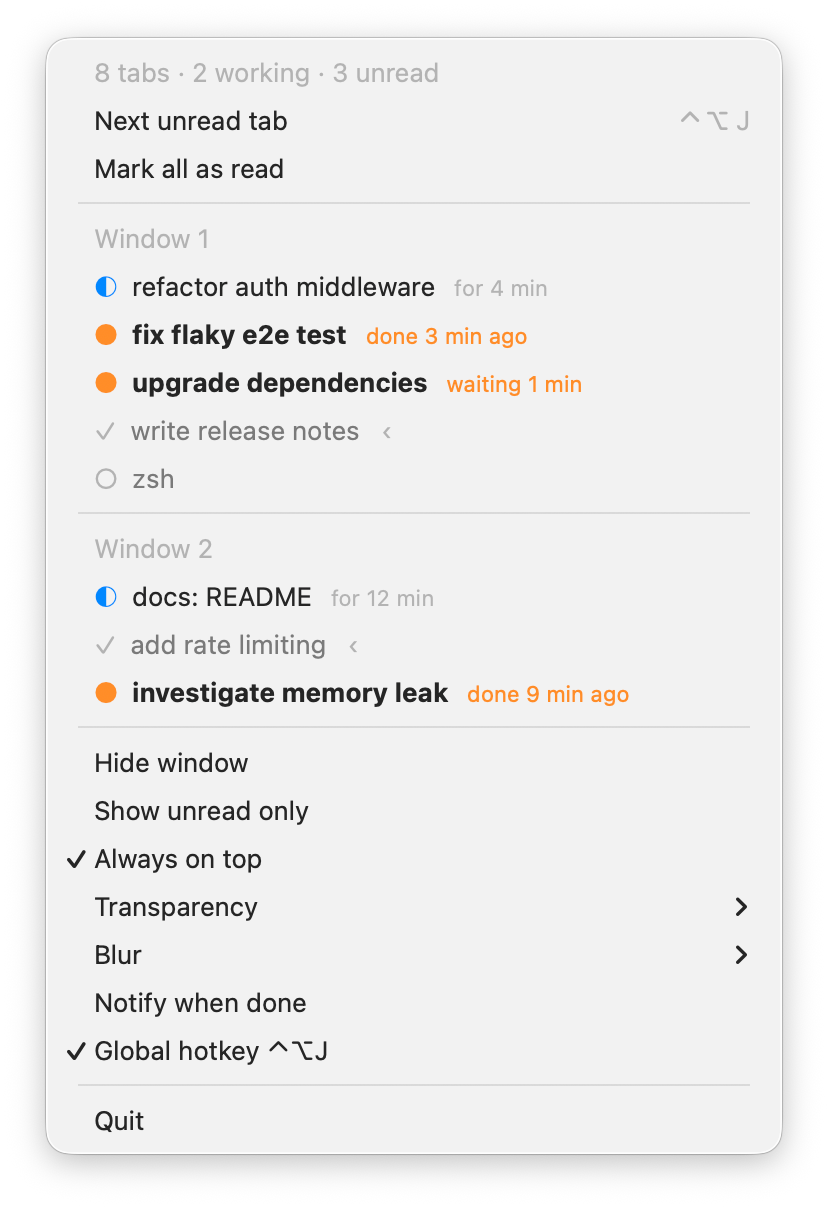
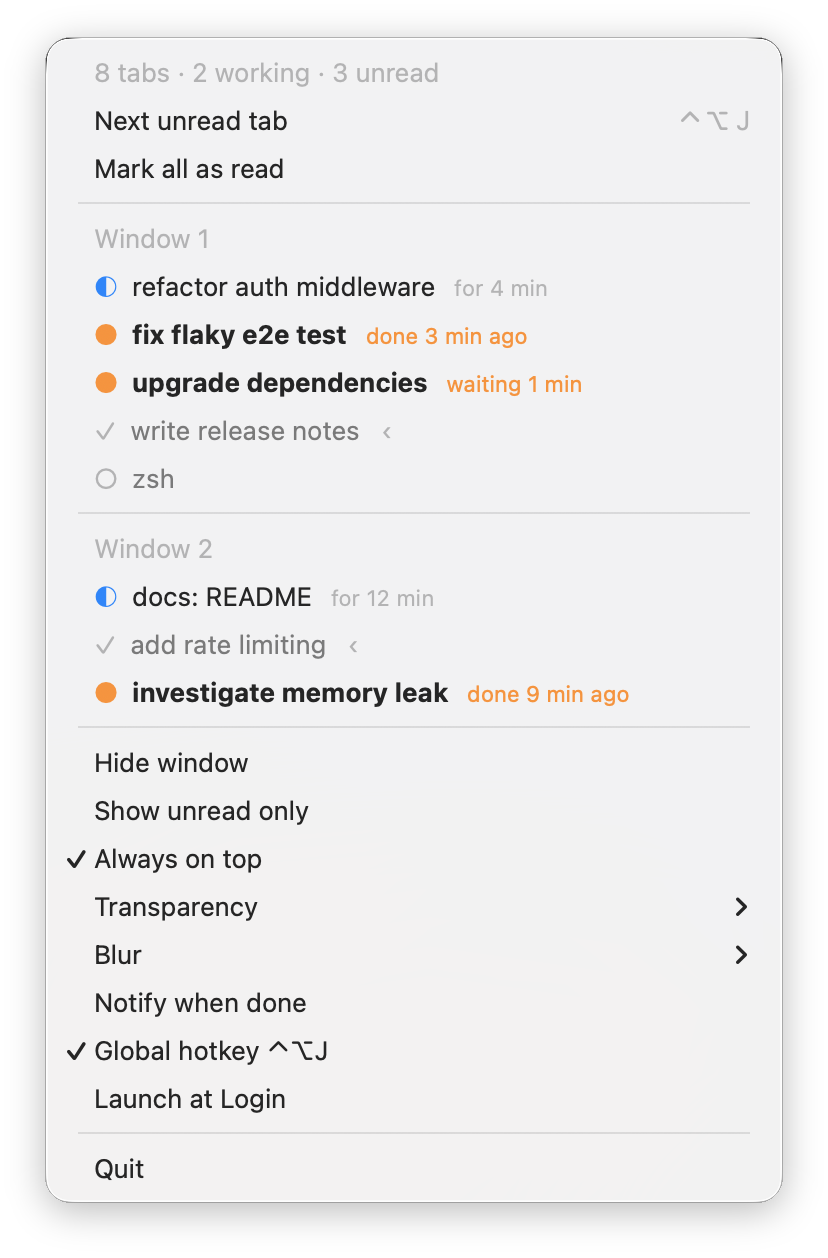
Fix release zip, demo cleanup, hotkey retry and notification settings
- make zip: drop AppleDouble/xattr entries so unzip keeps the signature valid
- Demo mode: remove its settings on quit (also on Ctrl-C/kill, even with the menu open),
  log to the terminal only, show Launch at Login as an inert checkbox
- "(unavailable)" hotkey item retries registration instead of switching off
- Notify item opens System Settings when notifications are denied; permission is
  re-read whenever the menu opens
- Menu screenshot retaken with Launch at Login

diff --git a/Sources/GhosttyBar/main.swift b/Sources/GhosttyBar/main.swift
@@ -49,6 +49,7 @@ final class AppDelegate: NSObject, NSApplicationDelegate, NSMenuDelegate {
     var timer: Timer?
     var lastPoll = Date.distantPast
     var sigSource: DispatchSourceSignal?
+    var quitSources: [DispatchSourceSignal] = []
     var menuOpen = false
     var menuDirty = false
 
@@ -94,6 +95,21 @@ final class AppDelegate: NSObject, NSApplicationDelegate, NSMenuDelegate {
         src.setEventHandler { [weak self] in MainActor.assumeIsolated { self?.window.toggle() } }
         src.resume()
         sigSource = src
+        if isDemo {
+            // Ctrl-C / kill quits cleanly, so the demo settings get removed.
+            for sig in [SIGINT, SIGTERM] {
+                quitSources.append(onSignalEvenInMenu(sig) { [weak self] in
+                    self?.settings.removeAll()
+                    NSApp.terminate(nil)
+                })
+            }
+            // `kill -USR2`: opens the dropdown, so screenshots of it can be scripted.
+            signal(SIGUSR2, SIG_IGN)
+            let m = DispatchSource.makeSignalSource(signal: SIGUSR2, queue: .main)
+            m.setEventHandler { [weak self] in MainActor.assumeIsolated { self?.statusItem.button?.performClick(nil) } }
+            m.resume()
+            quitSources.append(m)
+        }
 
         poll()
         rebuildMenu()
@@ -112,6 +128,10 @@ final class AppDelegate: NSObject, NSApplicationDelegate, NSMenuDelegate {
         ) { [weak self] _ in MainActor.assumeIsolated { if self?.source.isFrontmost == true { self?.poll() } } }
         let version = Bundle.main.object(forInfoDictionaryKey: "CFBundleShortVersionString") as? String ?? "dev"
         log("GhosttyBar \(version) started\(isDemo ? " in demo mode" : ""), pid \(getpid()), \(model.unreadCount) unread")
+    }
+
+    func applicationWillTerminate(_ n: Notification) {
+        if isDemo { settings.removeAll() }  // leave no demo settings behind
     }
 
     // MARK: polling
@@ -151,6 +171,8 @@ final class AppDelegate: NSObject, NSApplicationDelegate, NSMenuDelegate {
         if menuDirty { rebuildMenu() }  // e.g. slider moved in the right-click menu
     }
     func menuWillOpen(_ menu: NSMenu) {
+        // The permission can change in System Settings while we run; the result shows on the next open.
+        notifier?.refresh { [weak self] changed in if changed { self?.rebuildMenu() } }
         rebuildMenu()                  // fresh relative times
         menuOpen = true
     }
@@ -201,7 +223,7 @@ final class AppDelegate: NSObject, NSApplicationDelegate, NSMenuDelegate {
             self.window.setVisible(!self.window.isShown)
         })
         addSettingsItems(to: menu)
-        if !isDemo { menu.addItem(loginItem()) }
+        menu.addItem(loginItem())
         menu.addItem(.separator())
         menu.addItem(ClosureItem("Quit") { NSApp.terminate(nil) })
     }
@@ -293,6 +315,13 @@ final class AppDelegate: NSObject, NSApplicationDelegate, NSMenuDelegate {
 
     /// Checked = registered as login item. "Requires approval" = the user must allow it in System Settings.
     private func loginItem() -> NSMenuItem {
+        if isDemo {  // shown like a real instance, but never registers the demo binary as a login item
+            return ClosureItem("Launch at Login", checked: settings.demoLaunchAtLogin) { [weak self] in
+                guard let self else { return }
+                self.settings.demoLaunchAtLogin.toggle()
+                self.rebuildMenu()
+            }
+        }
         let status = LoginItem.status
         let pending = status == .requiresApproval
         return ClosureItem(pending ? "Launch at Login (allow in System Settings)" : "Launch at Login",
@@ -341,6 +370,11 @@ final class AppDelegate: NSObject, NSApplicationDelegate, NSMenuDelegate {
     }
 
     func toggleNotify() {
+        if let notifier, notifier.blocked {
+            // Denied in System Settings: asking again returns false at once, so send the user there.
+            Notifier.openSystemSettings()
+            return
+        }
         guard let notifier, !settings.notify else {
             settings.notify.toggle()   // switching off, or demo mode (setting only, never posts)
             rebuildMenu()
@@ -355,7 +389,9 @@ final class AppDelegate: NSObject, NSApplicationDelegate, NSMenuDelegate {
     }
 
     func toggleHotKey() {
-        settings.hotKey.toggle()
+        // On but not registered (another app owns ⌃⌥J): a click retries instead of switching off.
+        let failed = settings.hotKey && hotKey == nil && !isDemo
+        if !failed { settings.hotKey.toggle() }
         applyHotKey()
         rebuildMenu()
     }
@@ -371,6 +407,21 @@ final class AppDelegate: NSObject, NSApplicationDelegate, NSMenuDelegate {
             hotKey = nil
         }
     }
+}
+
+/// Runs `action` on the main thread when `sig` arrives, also while a menu is open (the main queue is not
+/// serviced during menu tracking, a common-modes run loop block is).
+nonisolated func onSignalEvenInMenu(_ sig: Int32, _ action: @escaping @MainActor @Sendable () -> Void) -> DispatchSourceSignal {
+    signal(sig, SIG_IGN)
+    let src = DispatchSource.makeSignalSource(signal: sig, queue: .global())
+    src.setEventHandler { @Sendable in
+        CFRunLoopPerformBlock(CFRunLoopGetMain(), CFRunLoopMode.commonModes.rawValue) {
+            MainActor.assumeIsolated { action() }
+        }
+        CFRunLoopWakeUp(CFRunLoopGetMain())
+    }
+    src.resume()
+    return src
 }
 
 setUpLogging()

diff --git a/Sources/GhosttyBar/Extras.swift b/Sources/GhosttyBar/Extras.swift
@@ -56,11 +56,26 @@ final class Notifier: NSObject, UNUserNotificationCenterDelegate {
     override init() {
         super.init()
         center.delegate = self
+        refresh { _ in }
+    }
+
+    /// Re-reads the permission; `done(true)` when `blocked` changed.
+    func refresh(_ done: @escaping @MainActor @Sendable (Bool) -> Void) {
         center.getNotificationSettings { s in
             let denied = s.authorizationStatus == .denied
             DispatchQueue.main.async {
-                MainActor.assumeIsolated { self.blocked = denied }
+                MainActor.assumeIsolated {
+                    let changed = self.blocked != denied
+                    self.blocked = denied
+                    done(changed)
+                }
             }
+        }
+    }
+
+    static func openSystemSettings() {
+        if let url = URL(string: "x-apple.systempreferences:com.apple.Notifications-Settings.extension") {
+            NSWorkspace.shared.open(url)
         }
     }
 
@@ -132,7 +147,7 @@ enum LoginItem {
 /// Started from a terminal: log to stderr. Otherwise (Finder, login item, launchd) append to
 /// ~/Library/Logs/GhosttyBar.log, which starts over once it passes 1 MB.
 func setUpLogging() {
-    guard isatty(STDERR_FILENO) == 0 else { return }
+    guard isatty(STDERR_FILENO) == 0, !isDemo else { return }  // demo runs log to stderr only
     let fm = FileManager.default
     let dir = fm.homeDirectoryForCurrentUser.appendingPathComponent("Library/Logs")
     try? fm.createDirectory(at: dir, withIntermediateDirectories: true)

diff --git a/Sources/GhosttyBar/Model.swift b/Sources/GhosttyBar/Model.swift
@@ -266,7 +266,24 @@ final class AppSettings {
     /// A separate suite, wiped on creation (demo mode, tests).
     init(freshSuite suite: String) {
         d = UserDefaults(suiteName: suite) ?? .standard
+        self.suite = suite
         d.removePersistentDomain(forName: suite)
+    }
+
+    private var suite: String?
+
+    /// Deletes a fresh suite (demo mode on quit). Never touches the normal settings.
+    func removeAll() {
+        guard let suite else { return }
+        for key in d.persistentDomain(forName: suite)?.keys ?? [:].keys { d.removeObject(forKey: key) }
+        d.removePersistentDomain(forName: suite)
+        CFPreferencesAppSynchronize(suite as CFString)
+    }
+
+    /// Demo mode only: the Launch at Login checkbox is shown but never registers anything.
+    var demoLaunchAtLogin: Bool {
+        get { d.bool(forKey: "demoLaunchAtLogin") }
+        set { d.set(newValue, forKey: "demoLaunchAtLogin") }
     }
 
     var visible: Bool {

diff --git a/README.md b/README.md
@@ -107,7 +107,8 @@ If you are looking at a tab when it finishes, it does not become unread.
 
 ⌃⌥J jumps to the next unread tab, oldest first. It works from any app and needs no Accessibility
 permission. If it clashes with another app, turn off **Global hotkey ⌃⌥J** in the menu. If another app
-already owns the combination, the item reads "(unavailable)".
+already owns the combination, the item reads "(unavailable)"; click it to try again once the other app
+lets go.
 
 ### Settings
 
@@ -121,7 +122,7 @@ behavior settings plus **Hide window**.
 | Always on top | Keeps the window above other windows and on all Spaces. On by default. |
 | Transparency | Opacity of the window background: 100 % is solid, 15 % is almost clear. Default 85 %. |
 | Blur | Blur of what shows through the window, from off to 100 %. Until you set it, it follows Transparency. |
-| Notify when done | A silent macOS notification when a tab becomes unread. Click it to jump to the tab. Off by default. |
+| Notify when done | A silent macOS notification when a tab becomes unread. Click it to jump to the tab. Off by default. If notifications are turned off for GhosttyBar in System Settings, the item says so and opens that page. |
 | Global hotkey ⌃⌥J | See above. On by default. |
 | Launch at Login | Starts GhosttyBar when you log in. |
 
@@ -135,6 +136,7 @@ Settings are stored in the `com.github.tony-schumacher.GhosttyBar` defaults doma
 
 ```sh
 defaults delete com.github.tony-schumacher.GhosttyBar
+defaults delete com.github.tony-schumacher.GhosttyBar.demo 2>/dev/null  # only if a demo was killed hard
 ```
 
 To toggle the window from a script or a keyboard tool, send the `USR1` signal:
@@ -152,8 +154,10 @@ build/GhosttyBar.app/Contents/MacOS/GhosttyBar --demo
 ```
 
 Demo mode shows eight sample tabs in two windows and never talks to Ghostty. It uses separate settings
-that reset on every launch, registers no hotkey and posts no notifications, so it can run next to your
-normal GhosttyBar. All screenshots on this page are from demo mode.
+that are removed when the demo quits (Quit, Ctrl-C or `kill`), logs only to the terminal, registers no
+hotkey, posts no notifications and never adds itself as a login item (those menu items are shown but do
+nothing), so it can run next to your normal GhosttyBar. All screenshots on this page are from demo mode;
+`kill -USR2` opens the demo's dropdown so it can be captured from a script.
 
 ## How it works
 
